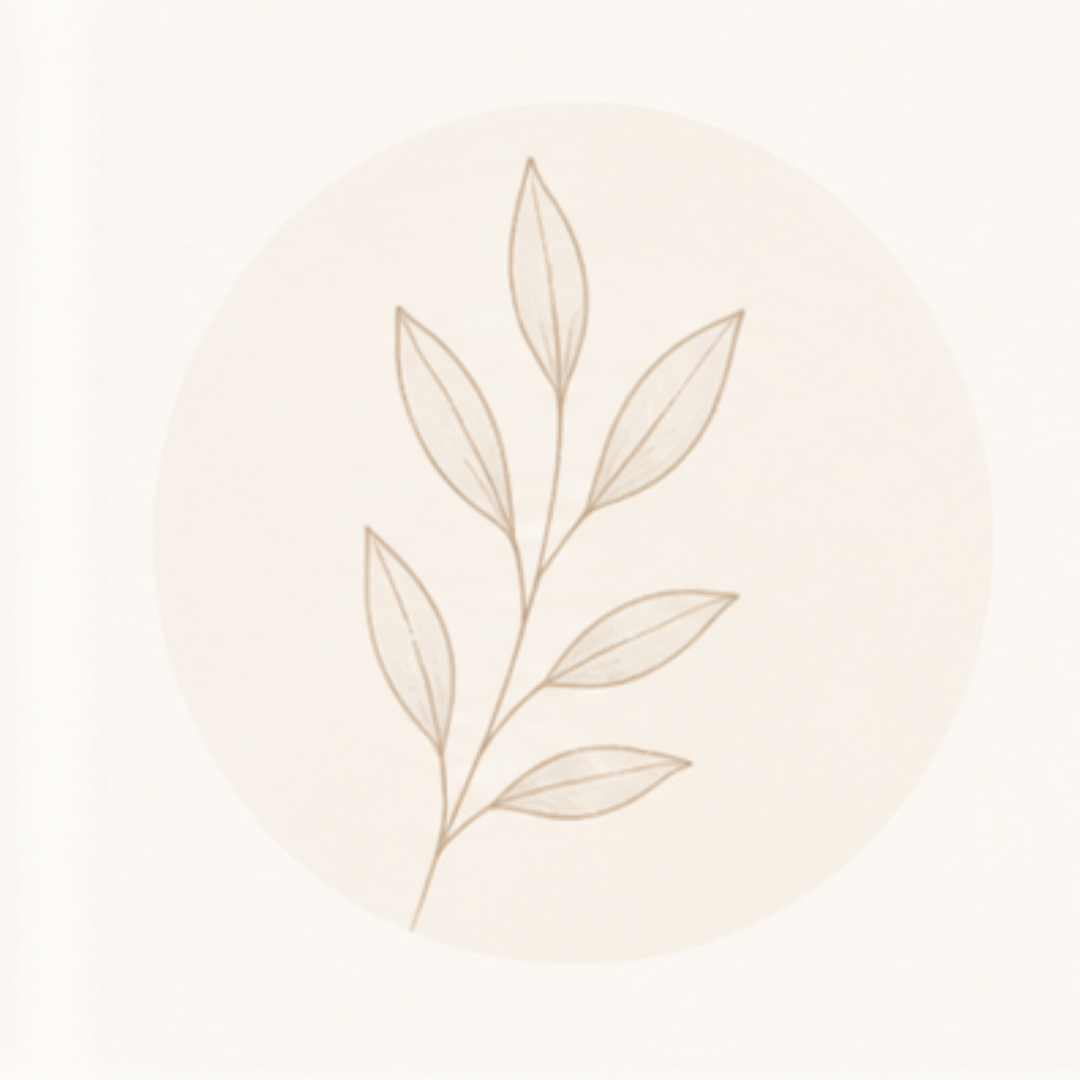
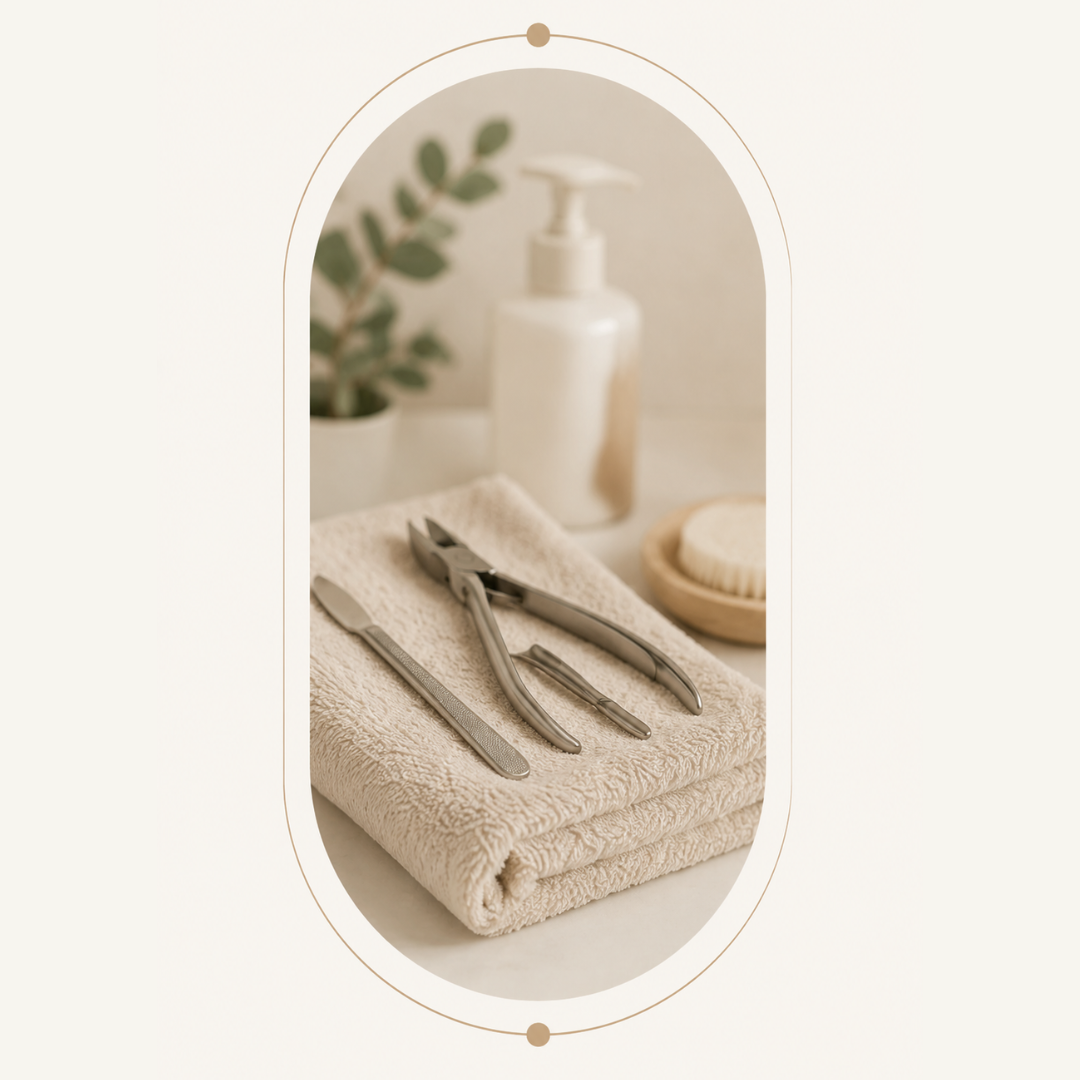
Painpoints: bullet4-Foto aktualisiert (Fußpflege-Instrumente statt Blattranke)
Neues Bild von Viktoria unter demselben Dateinamen ersetzt, Alt-Text
entsprechend angepasst.

diff --git a/src/lib/data/business.ts b/src/lib/data/business.ts
@@ -79,7 +79,7 @@ export const painpoints = [
     titleStart: "Deine Füße brauchen besondere",
     titleEmphasis: "Aufmerksamkeit?",
     text: "Gerade bei sensiblen Situationen sind Fachwissen, Sorgfalt und ein einfühlsamer Umgang besonders wichtig.",
-    image: { src: "/images/bullet4.png", alt: "Handgezeichnete Blattranke" },
+    image: { src: "/images/bullet4.png", alt: "Fußpflege-Instrumente auf einem Handtuch" },
   },
 ] as const;
 
